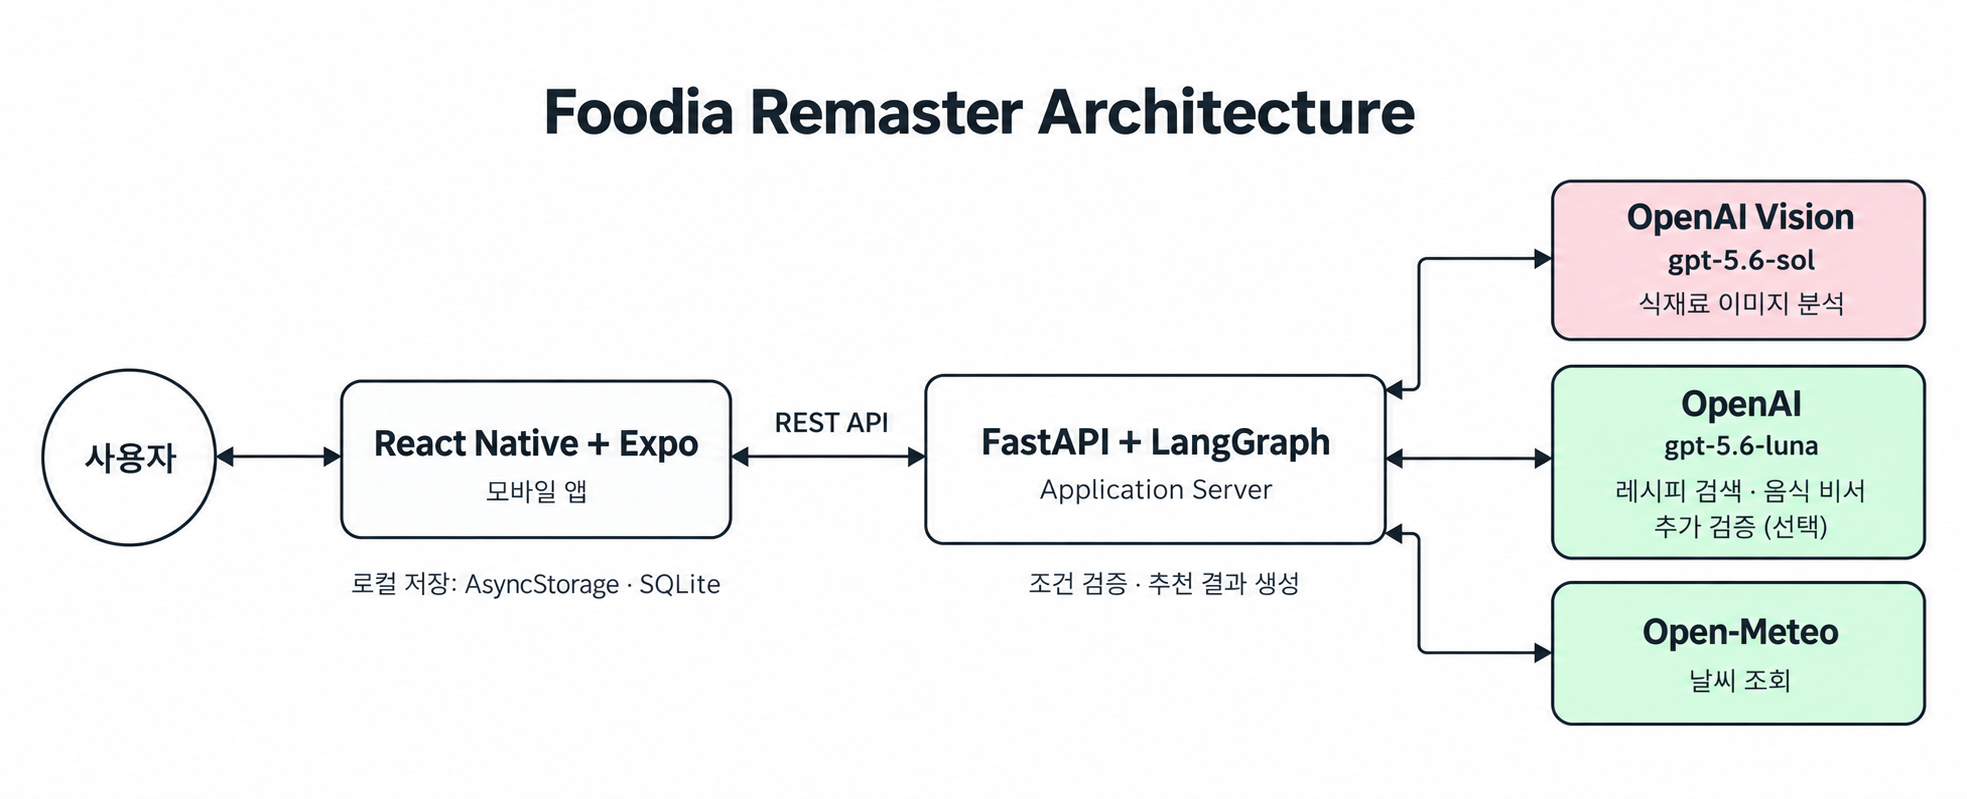
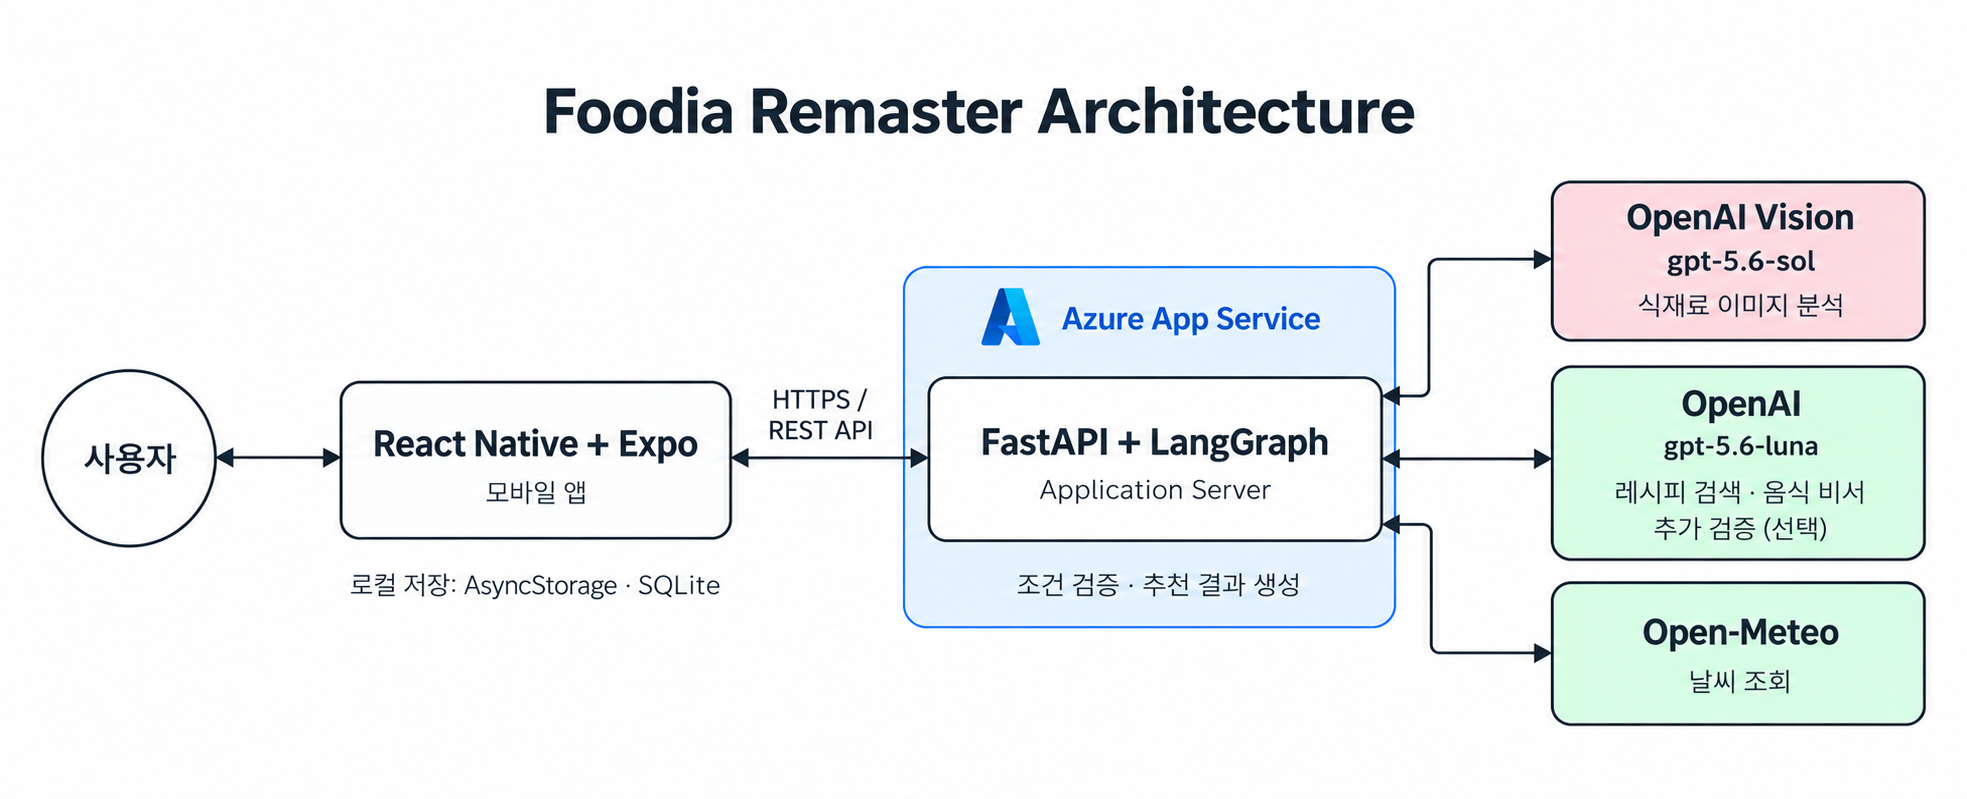
project fix

diff --git a/backend/src/services/search_service.py b/backend/src/services/search_service.py
@@ -1,3 +1,4 @@
+import logging
 from functools import lru_cache
 from typing import Any
 from urllib.parse import urlparse
@@ -155,6 +156,12 @@ async def search_web_recipes(
     except ConfigurationError:
         raise
     except Exception as exc:
+        logging.getLogger(__name__).error(
+            "OpenAI search failure: operation=recipes exception=%s status=%s code=%s",
+            type(exc).__name__,
+            getattr(exc, "status_code", None),
+            getattr(exc, "code", None),
+        )
         raise WorkflowError("OpenAI 만개의레시피 웹 검색에 실패했습니다.") from exc
 
     drafts = response.output_parsed
@@ -219,6 +226,12 @@ async def search_assistant_recipes(
     except ConfigurationError:
         raise
     except Exception as exc:
+        logging.getLogger(__name__).error(
+            "OpenAI search failure: operation=assistant exception=%s status=%s code=%s",
+            type(exc).__name__,
+            getattr(exc, "status_code", None),
+            getattr(exc, "code", None),
+        )
         raise WorkflowError("OpenAI 음식 추천 검색에 실패했습니다.") from exc
 
     drafts = response.output_parsed

diff --git a/README.md b/README.md
@@ -13,7 +13,6 @@
 - 자연어 요청과 사용자 상황을 고려한 개인화 메뉴 추천 애플리케이션
 - 추천 반영 정보: 현재 날씨·계절, 알레르기·제외 재료, 좋아하는 음식, 최근 메뉴, 즐겨찾기 맛집 기록
 
-- 기존 고정 레시피 DB와 YOLO 탐지 서버 제거
 - OpenAI API와 LangGraph 기반 구조로 리마스터
 
 - OpenAI 비전 모델을 이용한 식재료 이미지 분석
@@ -30,7 +29,6 @@
 - 알레르기 및 싫어하는 재료 제외
 - 좋아하는 음식과 평점 높은 맛집 메뉴 반영
 - 최근 먹은 메뉴의 반복 추천 방지
-- 원문 링크가 있는 메뉴 목록 제공
 
 ### 식재료 이미지 분석
 
@@ -49,11 +47,12 @@
 - 최초 실행 시 알레르기, 싫어하는 재료와 좋아하는 음식 등록
 - 날씨·계절·맛집 기록 반영 여부 설정
 - 최근 메뉴 제외 기간 설정
-- AsyncStorage와 SQLite를 이용한 기기 로컬 저장
 
 ## 시스템 구조
 
-![Foodia 시스템 구조](docs/system-architecture.png)
+![Foodia 시스템 구조](docs/system-architecture-simple.png)
+
+[상세 아키텍처 보기](docs/system-architecture.png)
 
 ## LangGraph 워크플로
 
@@ -66,9 +65,6 @@
   → 출처와 사용자 조건 검증
   → 추천 목록 생성
 ```
-
-- 검색 제한 시간: 8초
-- 시간 초과 시 검색 결과 링크를 포함한 대체 응답 반환
 
 ### 식재료 인식
 
@@ -190,7 +186,7 @@ cd frontend-expo
 - 결과 파일:
 
 ```text
-frontend-expo/android/app/build/outputs/apk/release/app-release.apk
+frontend-expo/android/app/build/outputs/apk/release/app-release.apk   <small>Azure 배포 검증 완료, 비용 문제로 인한 배포 중단 상태</small>
 ```
 
 ## API
@@ -209,15 +205,10 @@ cd backend
 .\.venv\Scripts\python.exe -m pytest
 ```
 
-## 설계 선택과 한계
+## 추후 업데이트 예정
 
-- 별도 사용자 DB 제거로 운영 복잡도 축소
-- 개인 기록의 기기 로컬 저장
-- 추천 요청 시 필요한 취향·맛집 정보를 백엔드와 OpenAI에 전달
-- AI의 알레르기 안전 보장 한계
-- 사용자의 원문 레시피·제품 표시 재확인 필요
-- 8초 대체 응답 시 상세 레시피 검증 대신 검색 결과 페이지 제공 가능
-- 현재 릴리스 APK 대상: `arm64-v8a` Android 실기기
+- 수집한 DB RAG 진행
+- 현재 릴리스 APK 대상: `arm64-v8a` Android 실기기 -> ios 추가 예정
 
 ## License
 
